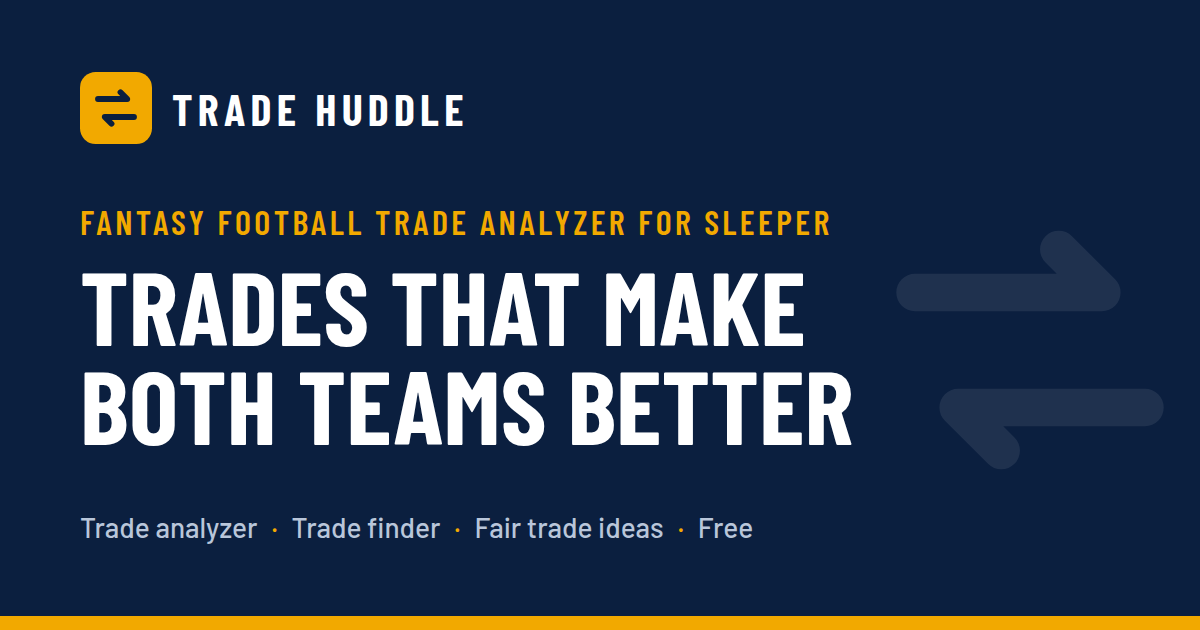
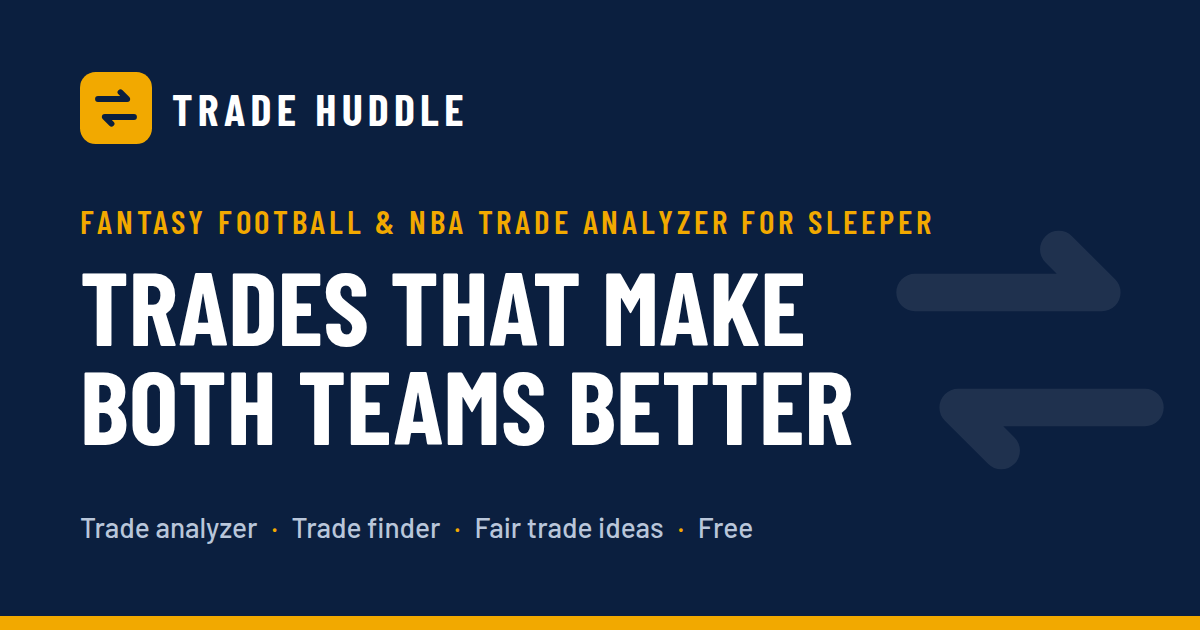
Link preview image: fantasy football & NBA

Changed region(s): [[0.0617, 0.3317, 0.8017, 0.3921]]

diff --git a/web/src/lib/site.ts b/web/src/lib/site.ts
@@ -23,7 +23,7 @@ export const OG_IMAGE = {
   url: `${SITE_URL}/og.png`,
   width: 1200,
   height: 630,
-  alt: "Trade Huddle: fantasy football trade analyzer for Sleeper leagues",
+  alt: "Trade Huddle: fantasy football and NBA trade analyzer for Sleeper leagues",
 };
 
 /** Structured data (schema.org) describing the site as a free web app. */
